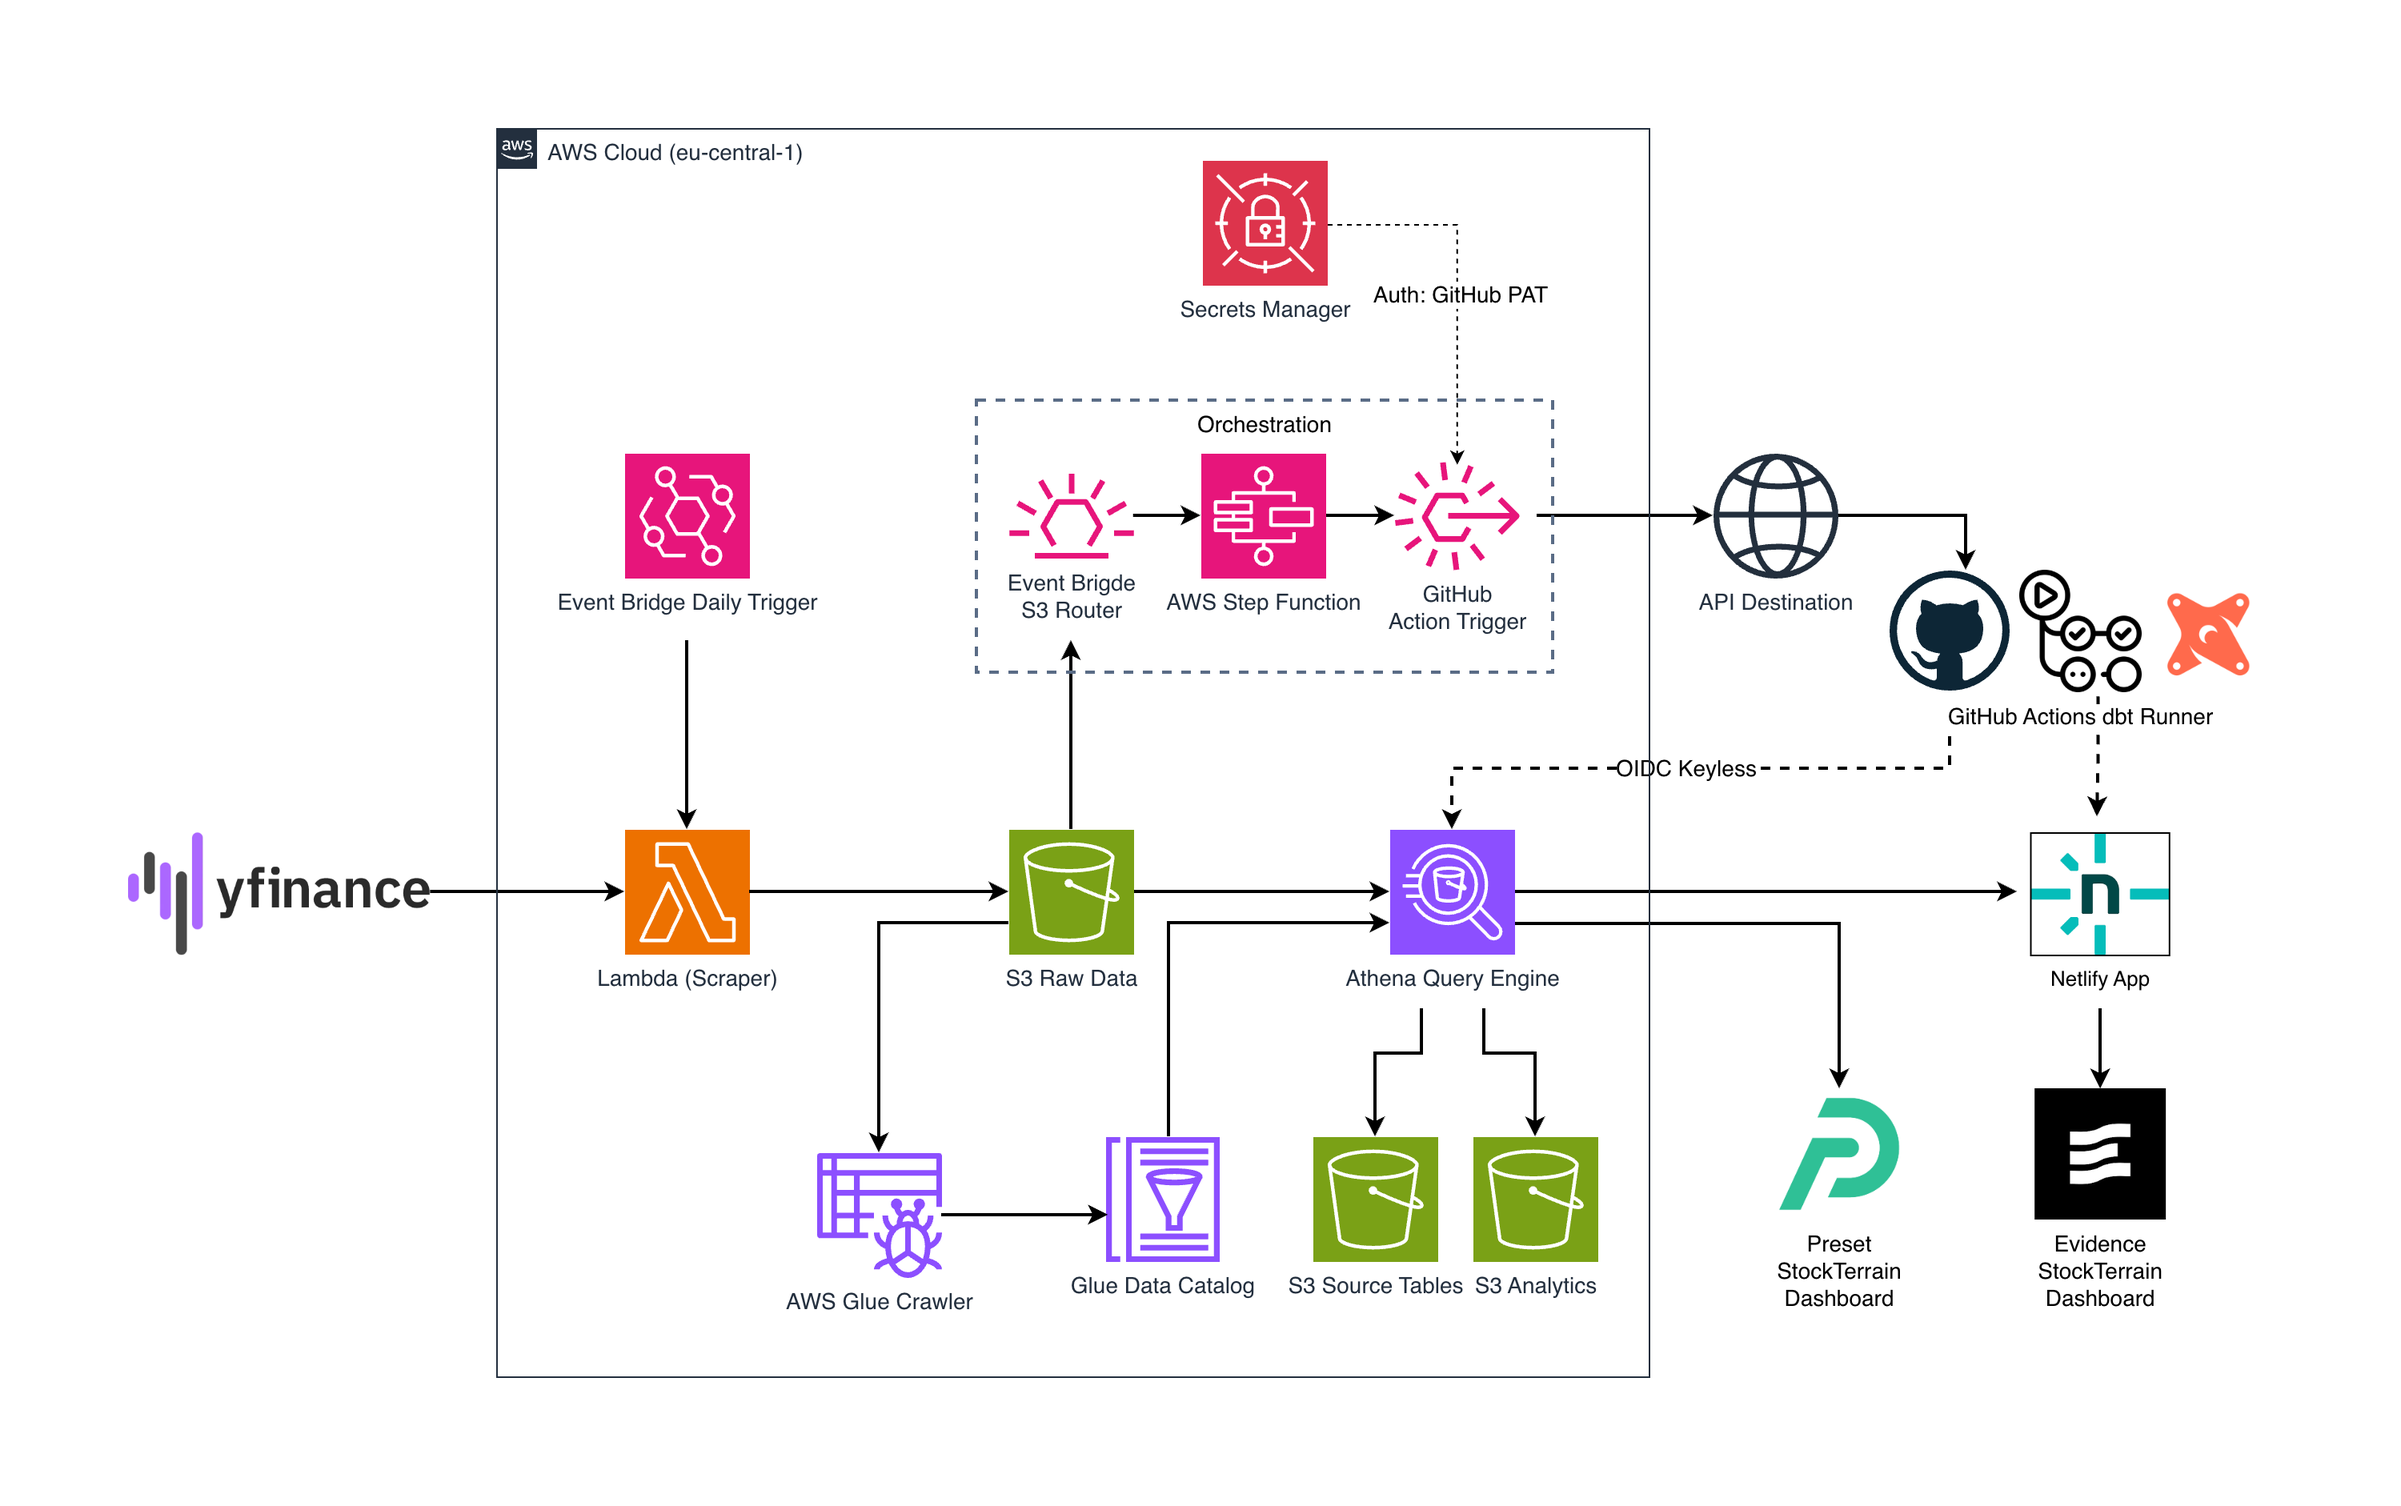
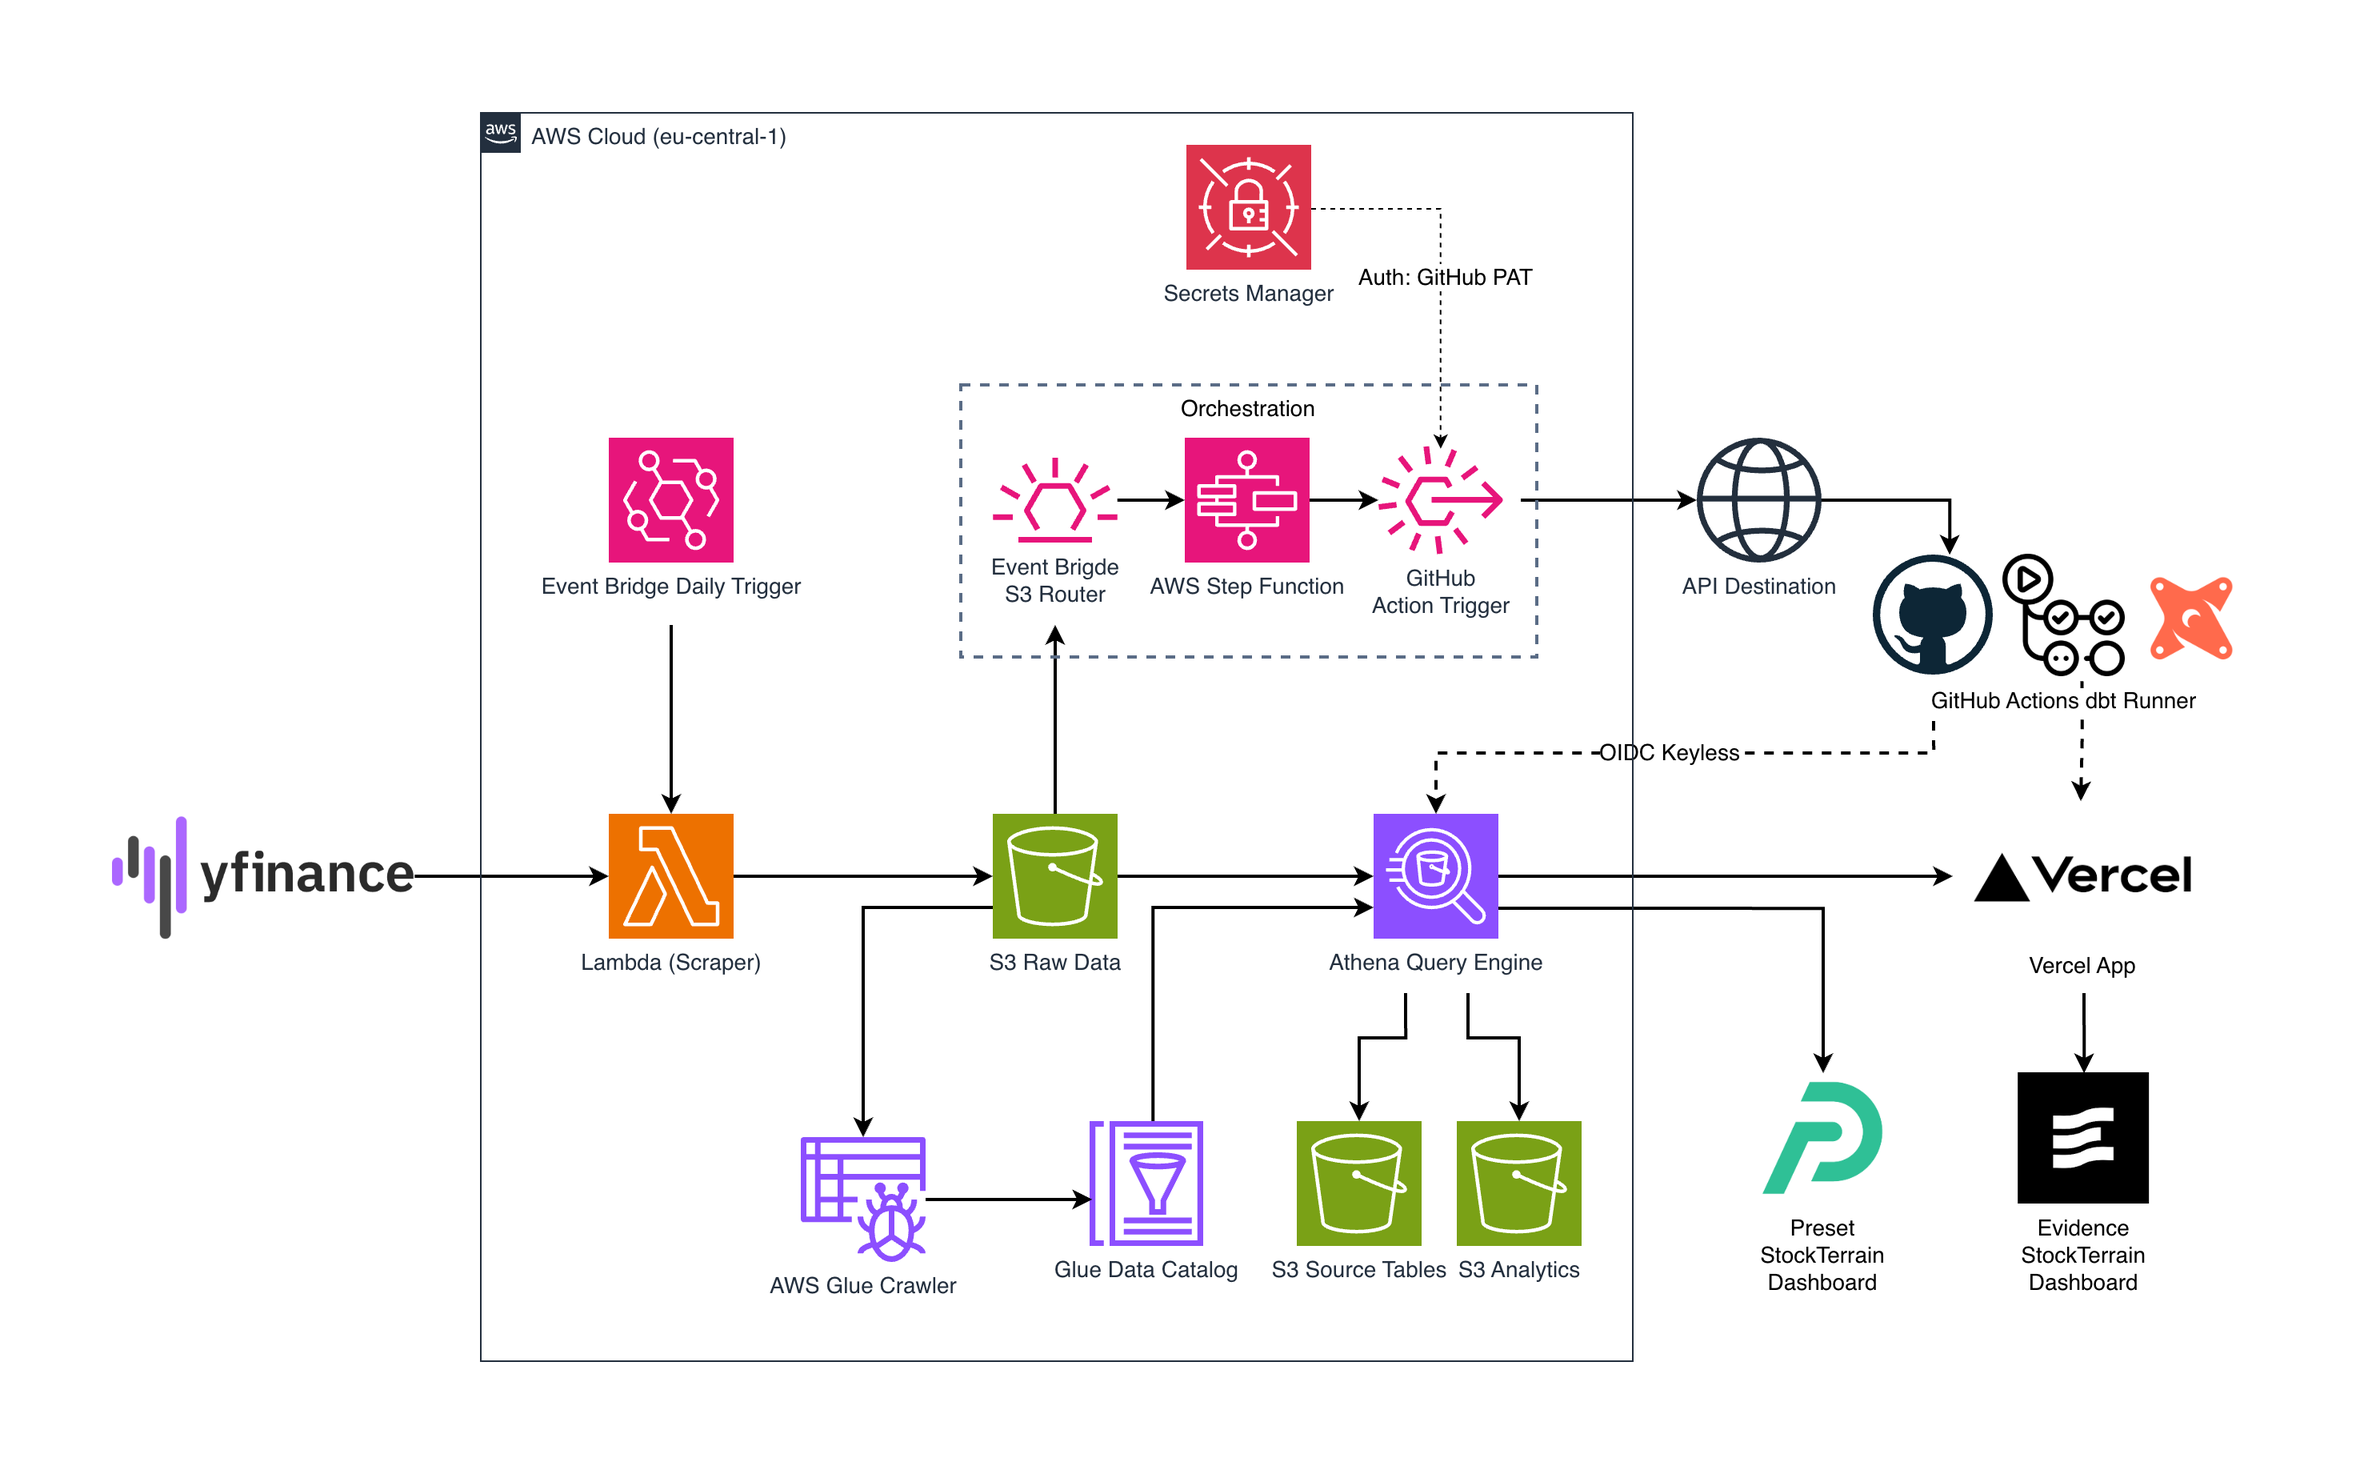
Diagram update [skip netlify]

diff --git a/README.md b/README.md
@@ -39,7 +39,7 @@ Interactive public dashboard built with Evidence.dev, deployed on Netlify.
 - **GitHub Actions**: CI/CD for dbt runs  
 - **Python**: Data ingestion via yfinance
 - **Evidence.dev**: Public-facing analytics app with SQL-driven markdown pages  
-- **Netlify**: Static site hosting and deployment for the Evidence dashboard  
+- **Vercel**: Static site hosting and deployment for the Evidence dashboard  
 - **Preset (Apache Superset)**: Interactive dashboards and visualization
 
 ## Author
